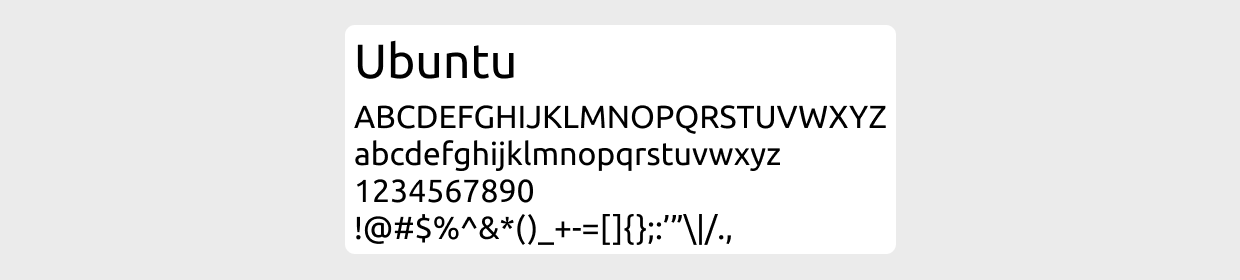
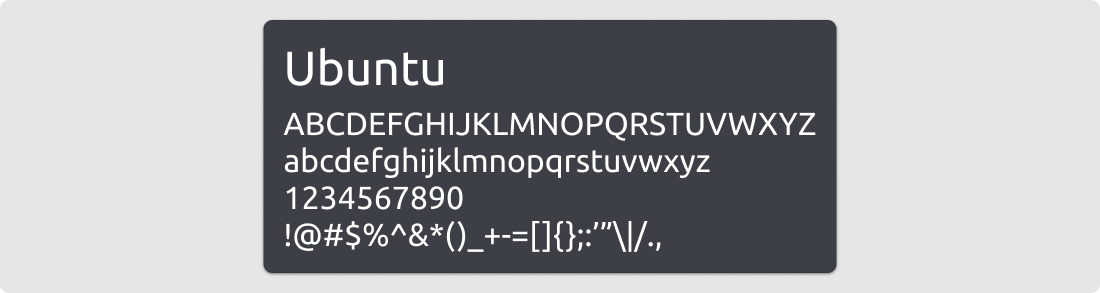
Updated typography doc

diff --git a/src/style-guide/typography/README.md b/src/style-guide/typography/README.md
@@ -2,8 +2,15 @@
 
 _A mostly reasonable approach to typography usages and styling._
 
+1. [Typeface](#typeface)
+1. [Styles](#styles)
+
 ## Typface
 
 ### _Prefer [Ubuntu](https://fonts.google.com/specimen/Ubuntu)_
 
 ![typeface](./.assets/typeface.png)
+
+## Styles
+
+![styles](./.assets/styles.png)
